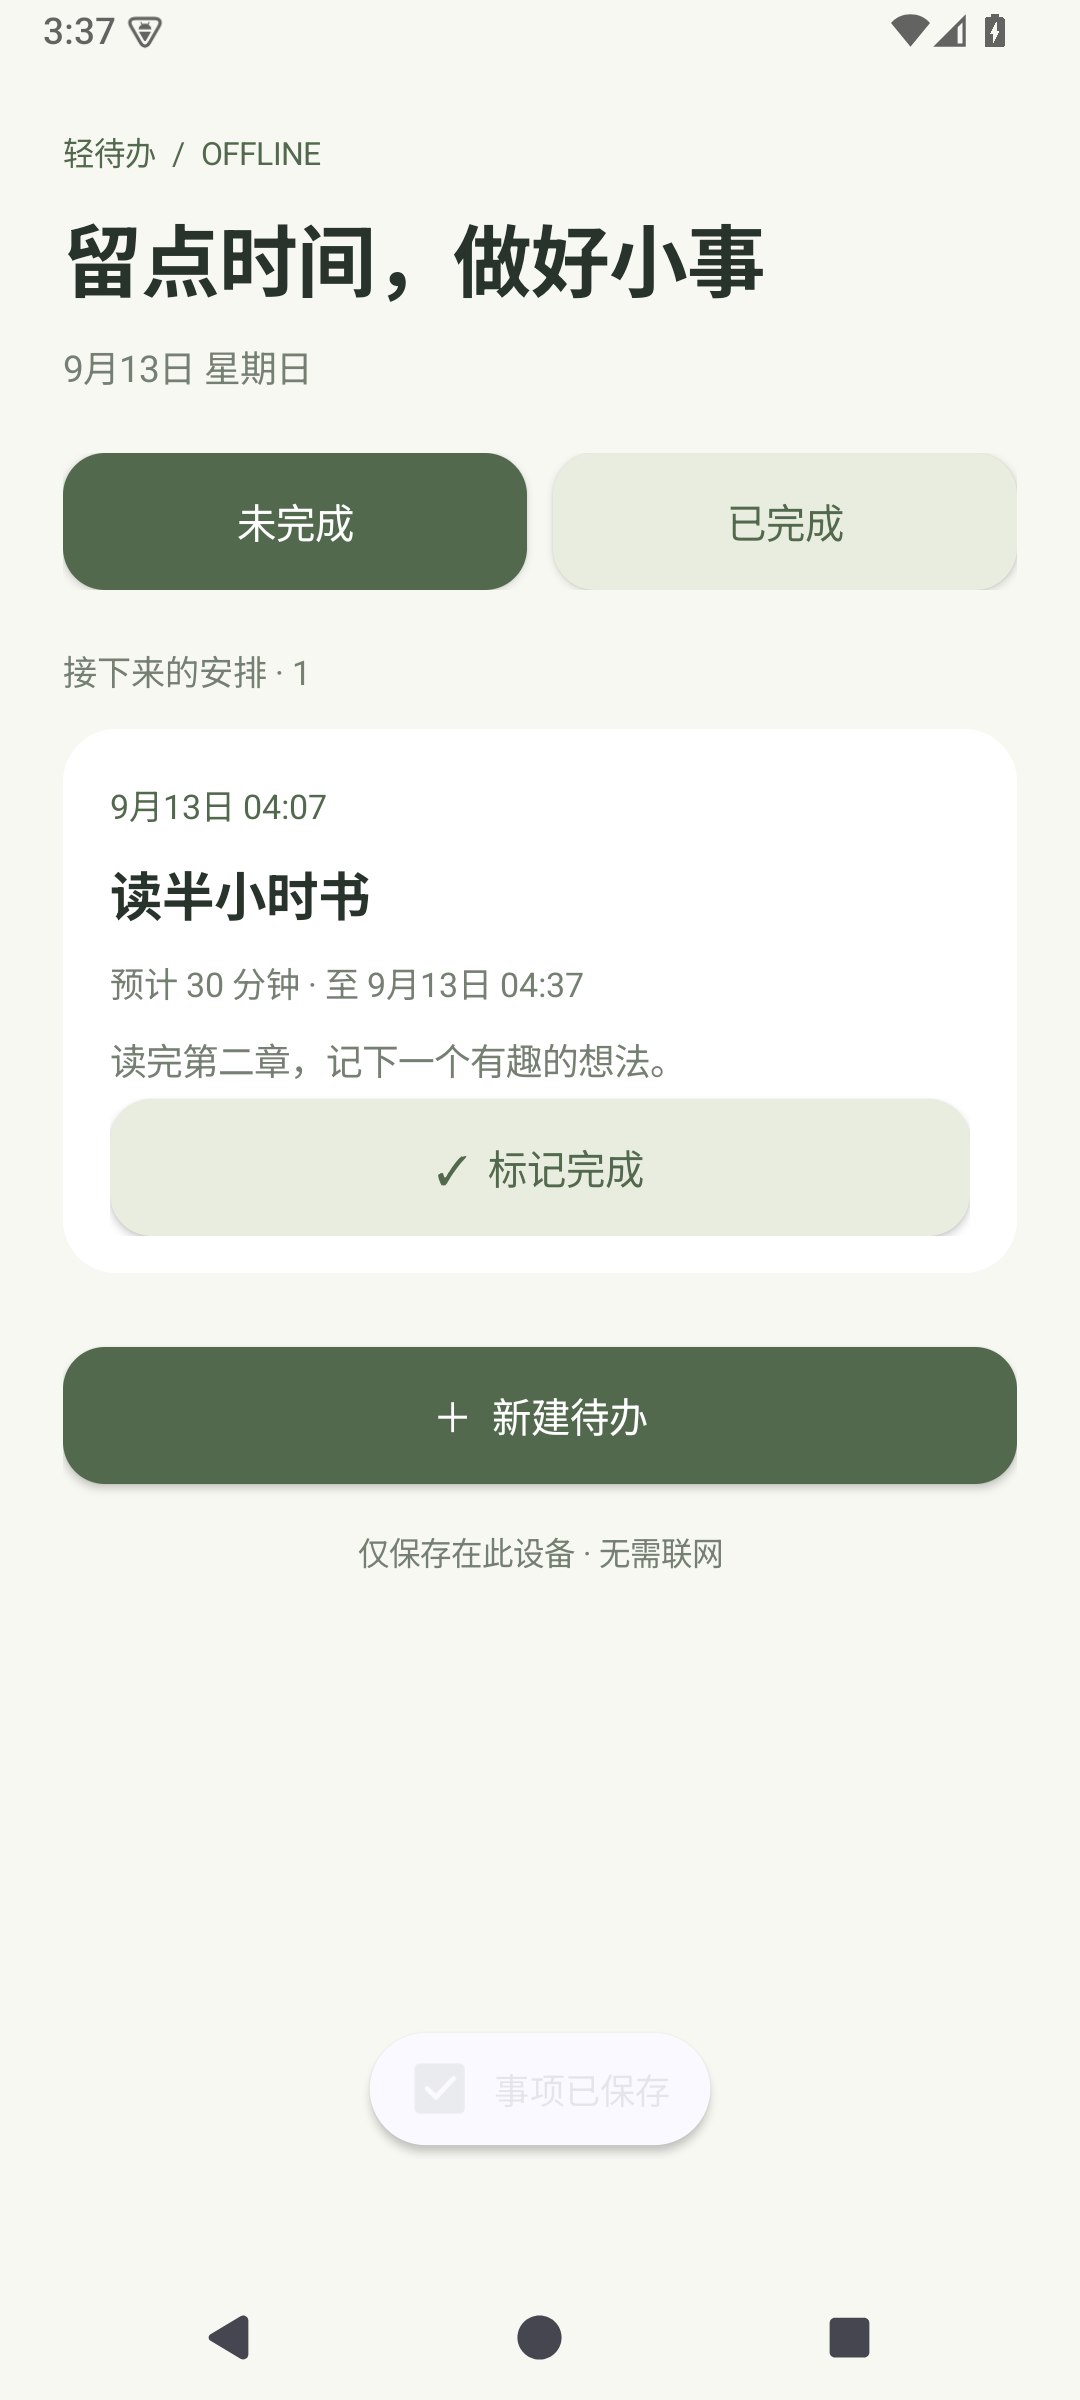
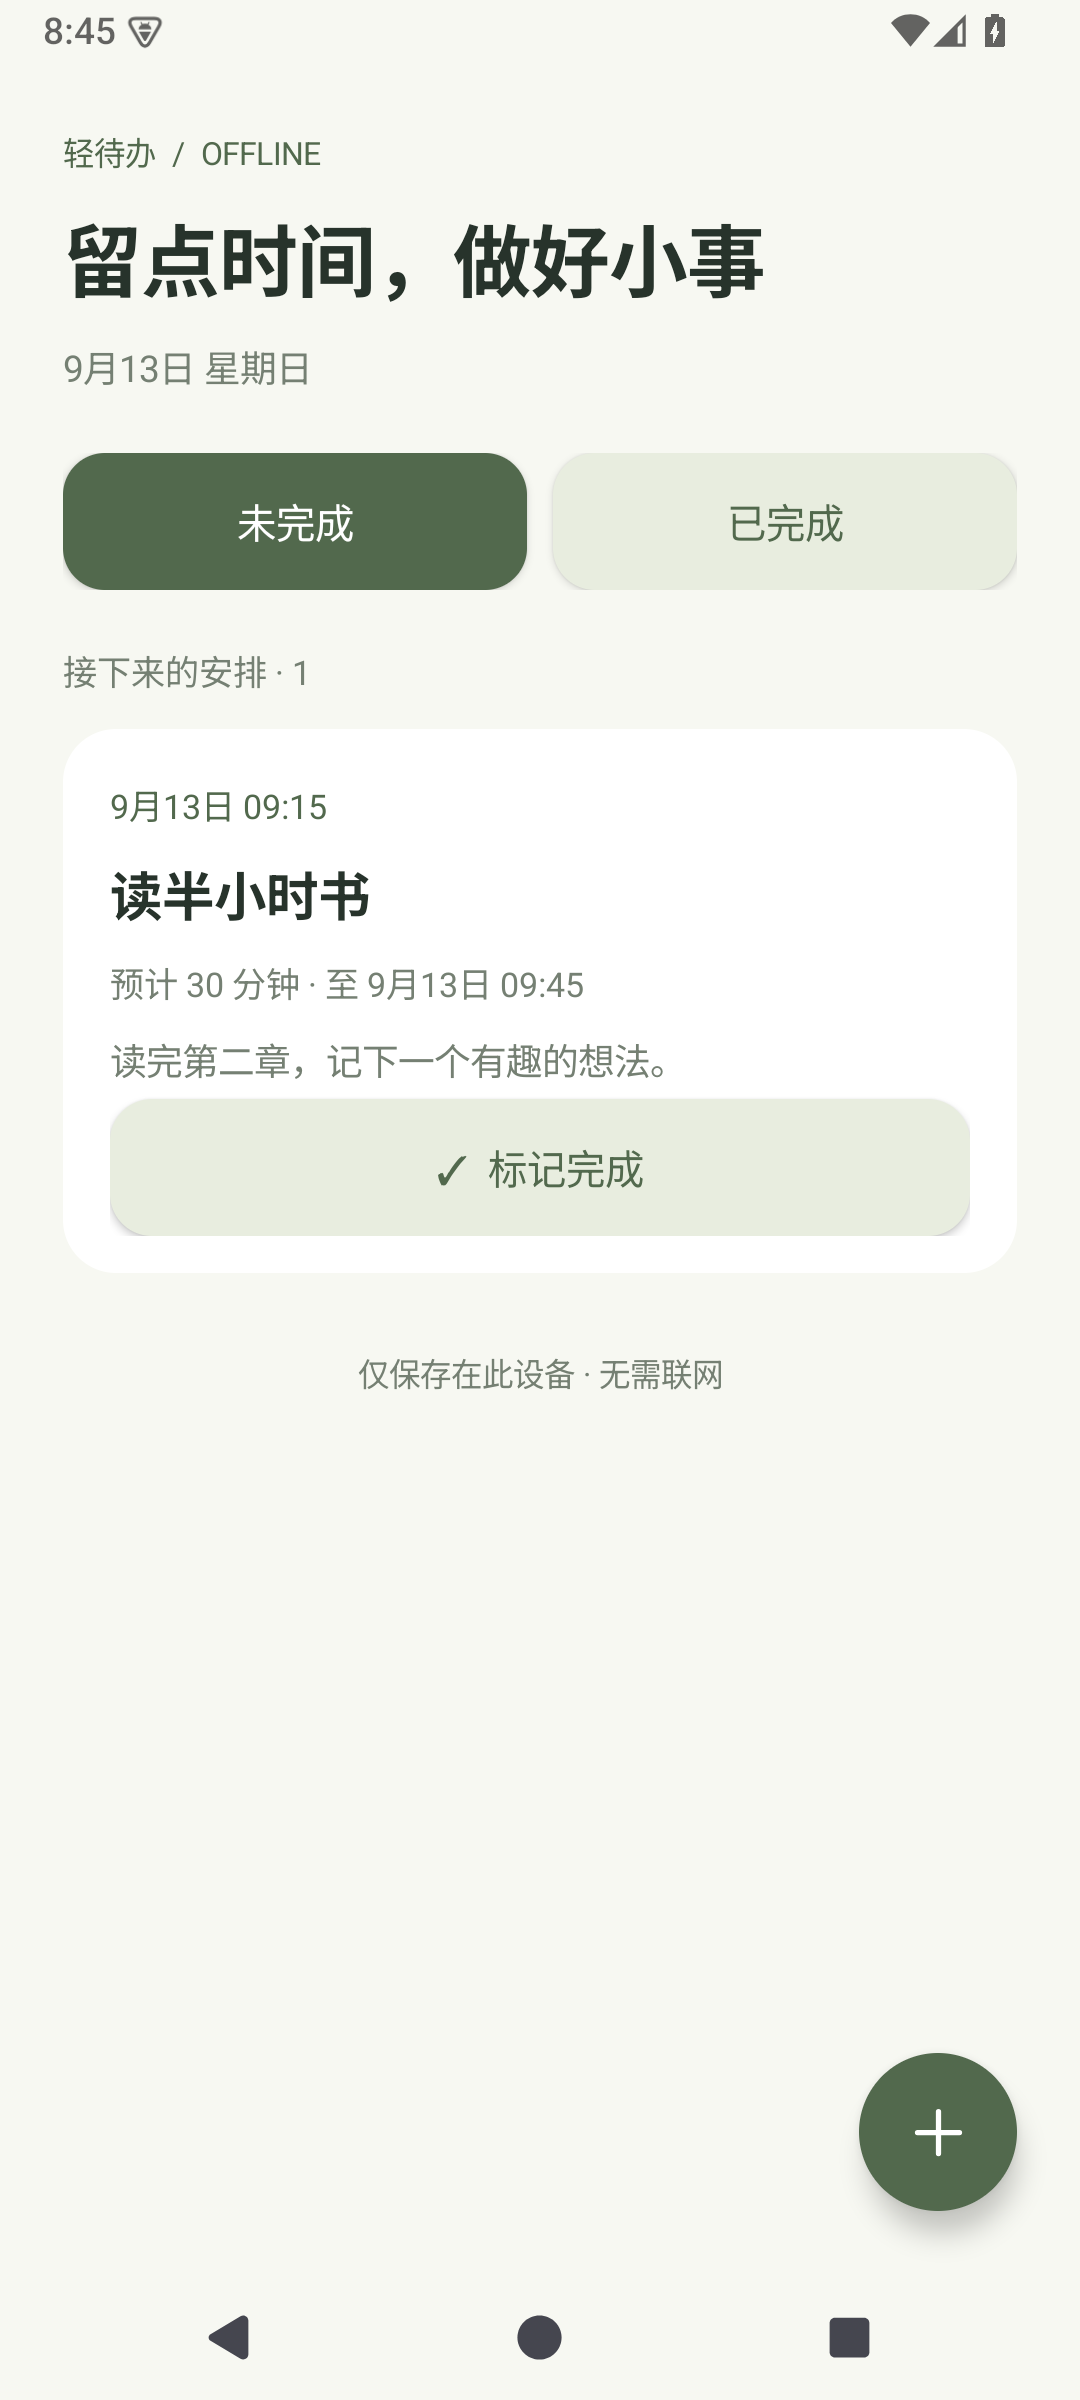
fix: stop periodic page rebuilds and float the add task button

diff --git a/app/src/main/java/com/ckun/reminder/MainActivity.java b/app/src/main/java/com/ckun/reminder/MainActivity.java
@@ -19,6 +19,11 @@ public final class MainActivity extends Activity {
     private static final int BG = 0xffF7F8F2, INK = 0xff27332B, MUTED = 0xff758073, GREEN = 0xff52694D;
     private LinearLayout page;
     private ScrollView scroll;
+    private FrameLayout screen;
+    private TextView dateLabel;
+    private List<Task> displayedTasks = new ArrayList<>();
+    private final Map<Long, TextView> taskTimeLabels = new HashMap<>();
+    private boolean shownNotifications, shownExact;
     private TaskStore store;
     private ReminderScheduler scheduler;
     private boolean completedTab, editing, exactBefore;
@@ -32,9 +37,7 @@ public final class MainActivity extends Activity {
     private final Handler handler = new Handler(Looper.getMainLooper());
     private final Runnable tick = new Runnable() {
         @Override public void run() {
-            if (!editing) {
-                int position = scroll.getScrollY(); showList(); scroll.post(() -> scroll.scrollTo(0, position));
-            } else updateTime();
+            if (!editing) refreshList();
             handler.postDelayed(this, 30_000);
         }
     };
@@ -67,7 +70,8 @@ public final class MainActivity extends Activity {
     @Override protected void onResume() {
         super.onResume();
         if (scheduler.exactAllowed() != exactBefore) { scheduler.restore(); exactBefore = scheduler.exactAllowed(); }
-        if (!editing) showList();
+        if (!editing) refreshList();
+        handler.removeCallbacks(tick);
         handler.postDelayed(tick, 30_000);
     }
     @Override protected void onPause() { super.onPause(); handler.removeCallbacks(tick); }
@@ -89,8 +93,9 @@ public final class MainActivity extends Activity {
     private void shell() {
         scroll = new ScrollView(this); scroll.setFillViewport(true); scroll.setBackgroundColor(BG);
         page = new LinearLayout(this); page.setOrientation(LinearLayout.VERTICAL); page.setPadding(dp(24), dp(20), dp(24), dp(32));
-        scroll.addView(page); setContentView(scroll);
-        scroll.setOnApplyWindowInsetsListener((v, insets) -> {
+        screen = new FrameLayout(this); screen.setBackgroundColor(BG);
+        scroll.addView(page); screen.addView(scroll, new FrameLayout.LayoutParams(-1, -1)); setContentView(screen);
+        screen.setOnApplyWindowInsetsListener((v, insets) -> {
             v.setPadding(insets.getSystemWindowInsetLeft(), insets.getSystemWindowInsetTop(), insets.getSystemWindowInsetRight(), insets.getSystemWindowInsetBottom());
             return insets;
         });
@@ -111,18 +116,23 @@ public final class MainActivity extends Activity {
     private String format(long time) { return new SimpleDateFormat("M月d日 HH:mm", Locale.CHINA).format(new Date(time)); }
     private void showList() {
         editing = false; shell();
+        taskTimeLabels.clear();
+        page.setPadding(dp(24), dp(20), dp(24), dp(104));
         page.addView(text("轻待办  /  OFFLINE", 12, GREEN));
-        heading("留点时间，做好小事", new SimpleDateFormat("M月d日 EEEE", Locale.CHINA).format(new Date()));
+        TextView heading = text("留点时间，做好小事", 30, INK); heading.setTypeface(null, Typeface.BOLD); page.addView(heading);
+        dateLabel = text(today(), 14, MUTED); page.addView(dateLabel); gap(18);
         LinearLayout tabs = new LinearLayout(this);
         Button pending = button("未完成", !completedTab, () -> { completedTab = false; showList(); });
         Button done = button("已完成", completedTab, () -> { completedTab = true; showList(); });
         tabs.addView(pending, new LinearLayout.LayoutParams(0, dp(52), 1));
         LinearLayout.LayoutParams tabParams = new LinearLayout.LayoutParams(0, dp(52), 1); tabParams.leftMargin = dp(10); tabs.addView(done, tabParams); page.addView(tabs); gap(16);
-        if (!scheduler.notificationsAllowed() || !scheduler.exactAllowed()) {
+        shownNotifications = scheduler.notificationsAllowed(); shownExact = scheduler.exactAllowed();
+        if (!shownNotifications || !shownExact) {
             String warning = !scheduler.notificationsAllowed() ? "通知未开启 · 点此设置提醒权限" : "精确提醒未开启 · 提醒可能延迟";
             Button banner = button(warning, false, this::permissions); banner.setTextSize(13); page.addView(banner); gap(16);
         }
         List<Task> tasks = store.all(); int count = 0;
+        displayedTasks = tasks;
         for (Task t : tasks) if (t.done == completedTab) count++;
         page.addView(text(completedTab ? "已完成 · " + count : "接下来的安排 · " + count, 13, MUTED)); gap(8);
         if (count == 0) {
@@ -134,8 +144,7 @@ public final class MainActivity extends Activity {
         for (Task t : tasks) {
             if (t.done != completedTab) continue;
             LinearLayout card = new LinearLayout(this); card.setOrientation(LinearLayout.VERTICAL); card.setPadding(dp(18), dp(14), dp(18), dp(14)); card.setBackground(shape(Color.WHITE, 20));
-            boolean overdue = !t.done && t.start <= System.currentTimeMillis();
-            card.addView(text((overdue ? "已过开始时间 · " : "") + format(t.start), 13, overdue ? 0xffA26343 : GREEN));
+            TextView time = text("", 13, GREEN); time.setTag("task-time-" + t.id); taskTimeLabels.put(t.id, time); updateTaskTime(t, time); card.addView(time);
             TextView title = text(t.title, 20, INK); title.setTypeface(null, Typeface.BOLD); card.addView(title);
             if (t.duration > 0) card.addView(text("预计 " + t.duration + " 分钟 · 至 " + format(ReminderRules.end(t)), 13, MUTED));
             if (!t.note.isEmpty()) { TextView note = text(t.note, 14, MUTED); note.setMaxLines(2); note.setEllipsize(TextUtils.TruncateAt.END); card.addView(note); }
@@ -143,10 +152,34 @@ public final class MainActivity extends Activity {
             if (!t.done) { Button finish = button("✓  标记完成", false, () -> complete(t)); card.addView(finish); }
             page.addView(card); gap(12);
         }
-        gap(16); page.addView(button("＋  新建待办", true, () -> {
+        ImageButton add = new ImageButton(this); add.setTag("add-task"); add.setContentDescription("新建待办");
+        add.setImageResource(R.drawable.ic_add); add.setPadding(dp(18), dp(18), dp(18), dp(18));
+        add.setBackground(new android.graphics.drawable.RippleDrawable(android.content.res.ColorStateList.valueOf(0x33FFFFFF), shape(GREEN, 32), null));
+        add.setElevation(dp(6));
+        add.setOnClickListener(v -> {
             Task t = new Task(); t.start = ((System.currentTimeMillis() / 60_000) + 30) * 60_000; showEditor(t);
-        }));
+        });
+        FrameLayout.LayoutParams floating = new FrameLayout.LayoutParams(dp(60), dp(60), Gravity.RIGHT | Gravity.BOTTOM);
+        floating.rightMargin = dp(24); floating.bottomMargin = dp(24); screen.addView(add, floating);
         gap(12); TextView local = text("仅保存在此设备 · 无需联网", 12, MUTED); local.setGravity(Gravity.CENTER); page.addView(local);
+    }
+    private String today() { return new SimpleDateFormat("M月d日 EEEE", Locale.CHINA).format(new Date()); }
+    private void updateTaskTime(Task task, TextView label) {
+        boolean overdue = !task.done && task.start <= System.currentTimeMillis();
+        String value = (overdue ? "已过开始时间 · " : "") + format(task.start);
+        if (!value.contentEquals(label.getText())) { label.setText(value); label.setTextColor(overdue ? 0xffA26343 : GREEN); }
+    }
+    private void refreshList() {
+        List<Task> current = store.all();
+        boolean changed = current.size() != displayedTasks.size() || shownNotifications != scheduler.notificationsAllowed() || shownExact != scheduler.exactAllowed();
+        if (!changed) for (int i = 0; i < current.size(); i++) {
+            if (current.get(i).id != displayedTasks.get(i).id || current.get(i).revision != displayedTasks.get(i).revision) { changed = true; break; }
+        }
+        if (changed) {
+            int position = scroll.getScrollY(); showList(); ScrollView target = scroll; target.post(() -> target.scrollTo(0, position)); return;
+        }
+        String date = today(); if (!date.contentEquals(dateLabel.getText())) dateLabel.setText(date);
+        for (Task task : displayedTasks) { TextView label = taskTimeLabels.get(task.id); if (label != null) updateTaskTime(task, label); }
     }
     private EditText input(String hint, String value, int type) {
         EditText e = new EditText(this); e.setTextColor(INK); e.setTextSize(16); e.setHint(hint); e.setInputType(type);

diff --git a/app/src/androidTest/java/com/ckun/reminder/AppFlowTest.java b/app/src/androidTest/java/com/ckun/reminder/AppFlowTest.java
@@ -26,7 +26,7 @@ public class AppFlowTest {
             click(activity, "＋  新建待办");
             instrumentation.runOnMainSync(activity::onBackPressed);
             instrumentation.waitForIdleSync();
-            instrumentation.runOnMainSync(() -> assertTrue(all(activity.getWindow().getDecorView()).stream().anyMatch(v -> v instanceof Button && ((Button) v).getText().toString().equals("＋  新建待办"))));
+            instrumentation.runOnMainSync(() -> assertNotNull(activity.getWindow().getDecorView().findViewWithTag("add-task")));
             try (TaskStore store = new TaskStore(context)) { assertEquals(before, store.all().size()); }
         } finally { instrumentation.runOnMainSync(activity::finish); }
     }
@@ -39,11 +39,47 @@ public class AppFlowTest {
     }
     private void click(Activity activity, String label) {
         instrumentation.runOnMainSync(() -> {
+            if (label.equals("＋  新建待办")) { View add = activity.getWindow().getDecorView().findViewWithTag("add-task"); assertNotNull(add); add.performClick(); return; }
             for (View v : all(activity.getWindow().getDecorView())) {
                 if (v instanceof Button && ((Button) v).getText().toString().equals(label)) { v.performClick(); return; }
             }
             throw new AssertionError("Button missing: " + label);
         }); instrumentation.waitForIdleSync();
+    }
+    @Test public void timerKeepsViewsAndScrollWhileFabStaysFixed() throws Exception {
+        List<Long> ids = new ArrayList<>();
+        try (TaskStore store = new TaskStore(context)) {
+            for (int i = 0; i < 16; i++) {
+                Task task = new Task(); task.title = "滚动验证 " + i; task.start = System.currentTimeMillis() + (i == 0 ? 5000 : 86400000L + i * 60000L);
+                task.reminderMinutes = new TreeSet<>(); store.save(task); ids.add(task.id);
+            }
+        }
+        Activity activity = instrumentation.startActivitySync(new Intent(context, MainActivity.class).addFlags(Intent.FLAG_ACTIVITY_NEW_TASK));
+        View[] fab = new View[1]; ScrollView[] scrolling = new ScrollView[1]; TextView[] time = new TextView[1]; int[] position = new int[1], location = new int[2];
+        try {
+            instrumentation.waitForIdleSync();
+            instrumentation.runOnMainSync(() -> {
+                fab[0] = activity.getWindow().getDecorView().findViewWithTag("add-task"); assertNotNull(fab[0]);
+                assertEquals(fab[0].getWidth(), fab[0].getHeight()); fab[0].getLocationOnScreen(location);
+                for (View v : all(activity.getWindow().getDecorView())) if (v instanceof ScrollView) { scrolling[0] = (ScrollView) v; break; }
+                time[0] = activity.getWindow().getDecorView().findViewWithTag("task-time-" + ids.get(0));
+                scrolling[0].scrollTo(0, 700);
+            }); instrumentation.waitForIdleSync();
+            instrumentation.runOnMainSync(() -> { position[0] = scrolling[0].getScrollY(); assertTrue(position[0] > 0); });
+            SystemClock.sleep(31500); instrumentation.waitForIdleSync();
+            instrumentation.runOnMainSync(() -> {
+                assertSame(fab[0], activity.getWindow().getDecorView().findViewWithTag("add-task"));
+                assertSame(time[0], activity.getWindow().getDecorView().findViewWithTag("task-time-" + ids.get(0)));
+                assertTrue(time[0].getText().toString().contains("已过开始时间"));
+                assertEquals(position[0], scrolling[0].getScrollY());
+                int[] after = new int[2]; fab[0].getLocationOnScreen(after); assertArrayEquals(location, after);
+            });
+            screenshot("floating-add.png"); click(activity, "＋  新建待办");
+            instrumentation.runOnMainSync(() -> assertNull(activity.getWindow().getDecorView().findViewWithTag("add-task")));
+        } finally {
+            instrumentation.runOnMainSync(activity::finish);
+            try (TaskStore store = new TaskStore(context)) { for (long id : ids) store.delete(id); }
+        }
     }
     private void screenshot(String name) throws Exception {
         SystemClock.sleep(2500);

diff --git a/README.md b/README.md
@@ -6,6 +6,7 @@
 
 - 新建、编辑、删除事项，标记完成，未完成／已完成列表；已完成事项可以在详情页改为未完成。
 - 编辑页点击返回或系统返回键直接回到列表，不再二次确认；未保存的修改不会写入。
+- 新建入口为右下角圆形加号悬浮按钮，滚动列表时保持固定；定时检查只更新有变化的日期和逾期文字，不再周期性重建页面，编辑页不定时刷新。
 - 预计开始日期和时间；可选持续时间、15／30／60 分钟快捷输入、预计结束时间展示。
 - 日期时间使用同一个圆角弹窗：月历选择日期、左右切月、年月快速跳转；小时／分钟滚轮使用 24 小时制。顶部日期和时间可切换，仅点击确定后应用，不包含农历。
 - 独立提醒子页面，可多选发生时、5／10／15／30 分钟、1／2 小时、1／2／7 天前；支持自定义分钟数和不提醒。已过期的时间不可新增选择。

diff --git a/TESTING.md b/TESTING.md
@@ -1,5 +1,13 @@
 # MVP 验证记录
 
+## 0.1.3 悬浮新建与刷新修复
+
+右下角圆形加号替代列表内新建按钮。移除每 30 秒无条件重建页面；日期和逾期标签按变化更新，编辑页面不做定时刷新。
+
+新增跨越实际 30 秒周期的回归测试：滚动位置不变，列表标签和悬浮按钮实例不变，逾期状态正常更新，悬浮按钮位置不随滚动改变，并可正常进入新建页。继续运行全部已有测试。
+
+结果：14 项设备测试全部通过（含实际等待 31.5 秒的刷新测试），24 条规则断言、离线配置检查、构建及 APK 签名验证通过。Lint 为 0 错误、3 条提示，其中新增提示为悬浮按钮使用固定右侧定位。
+
 ## 0.1.2 直接返回
 
 移除编辑页返回确认弹窗。新增回归测试覆盖页面返回按钮、系统返回键和未保存草稿不落库；同时运行全部设备测试、规则测试和 Lint。
